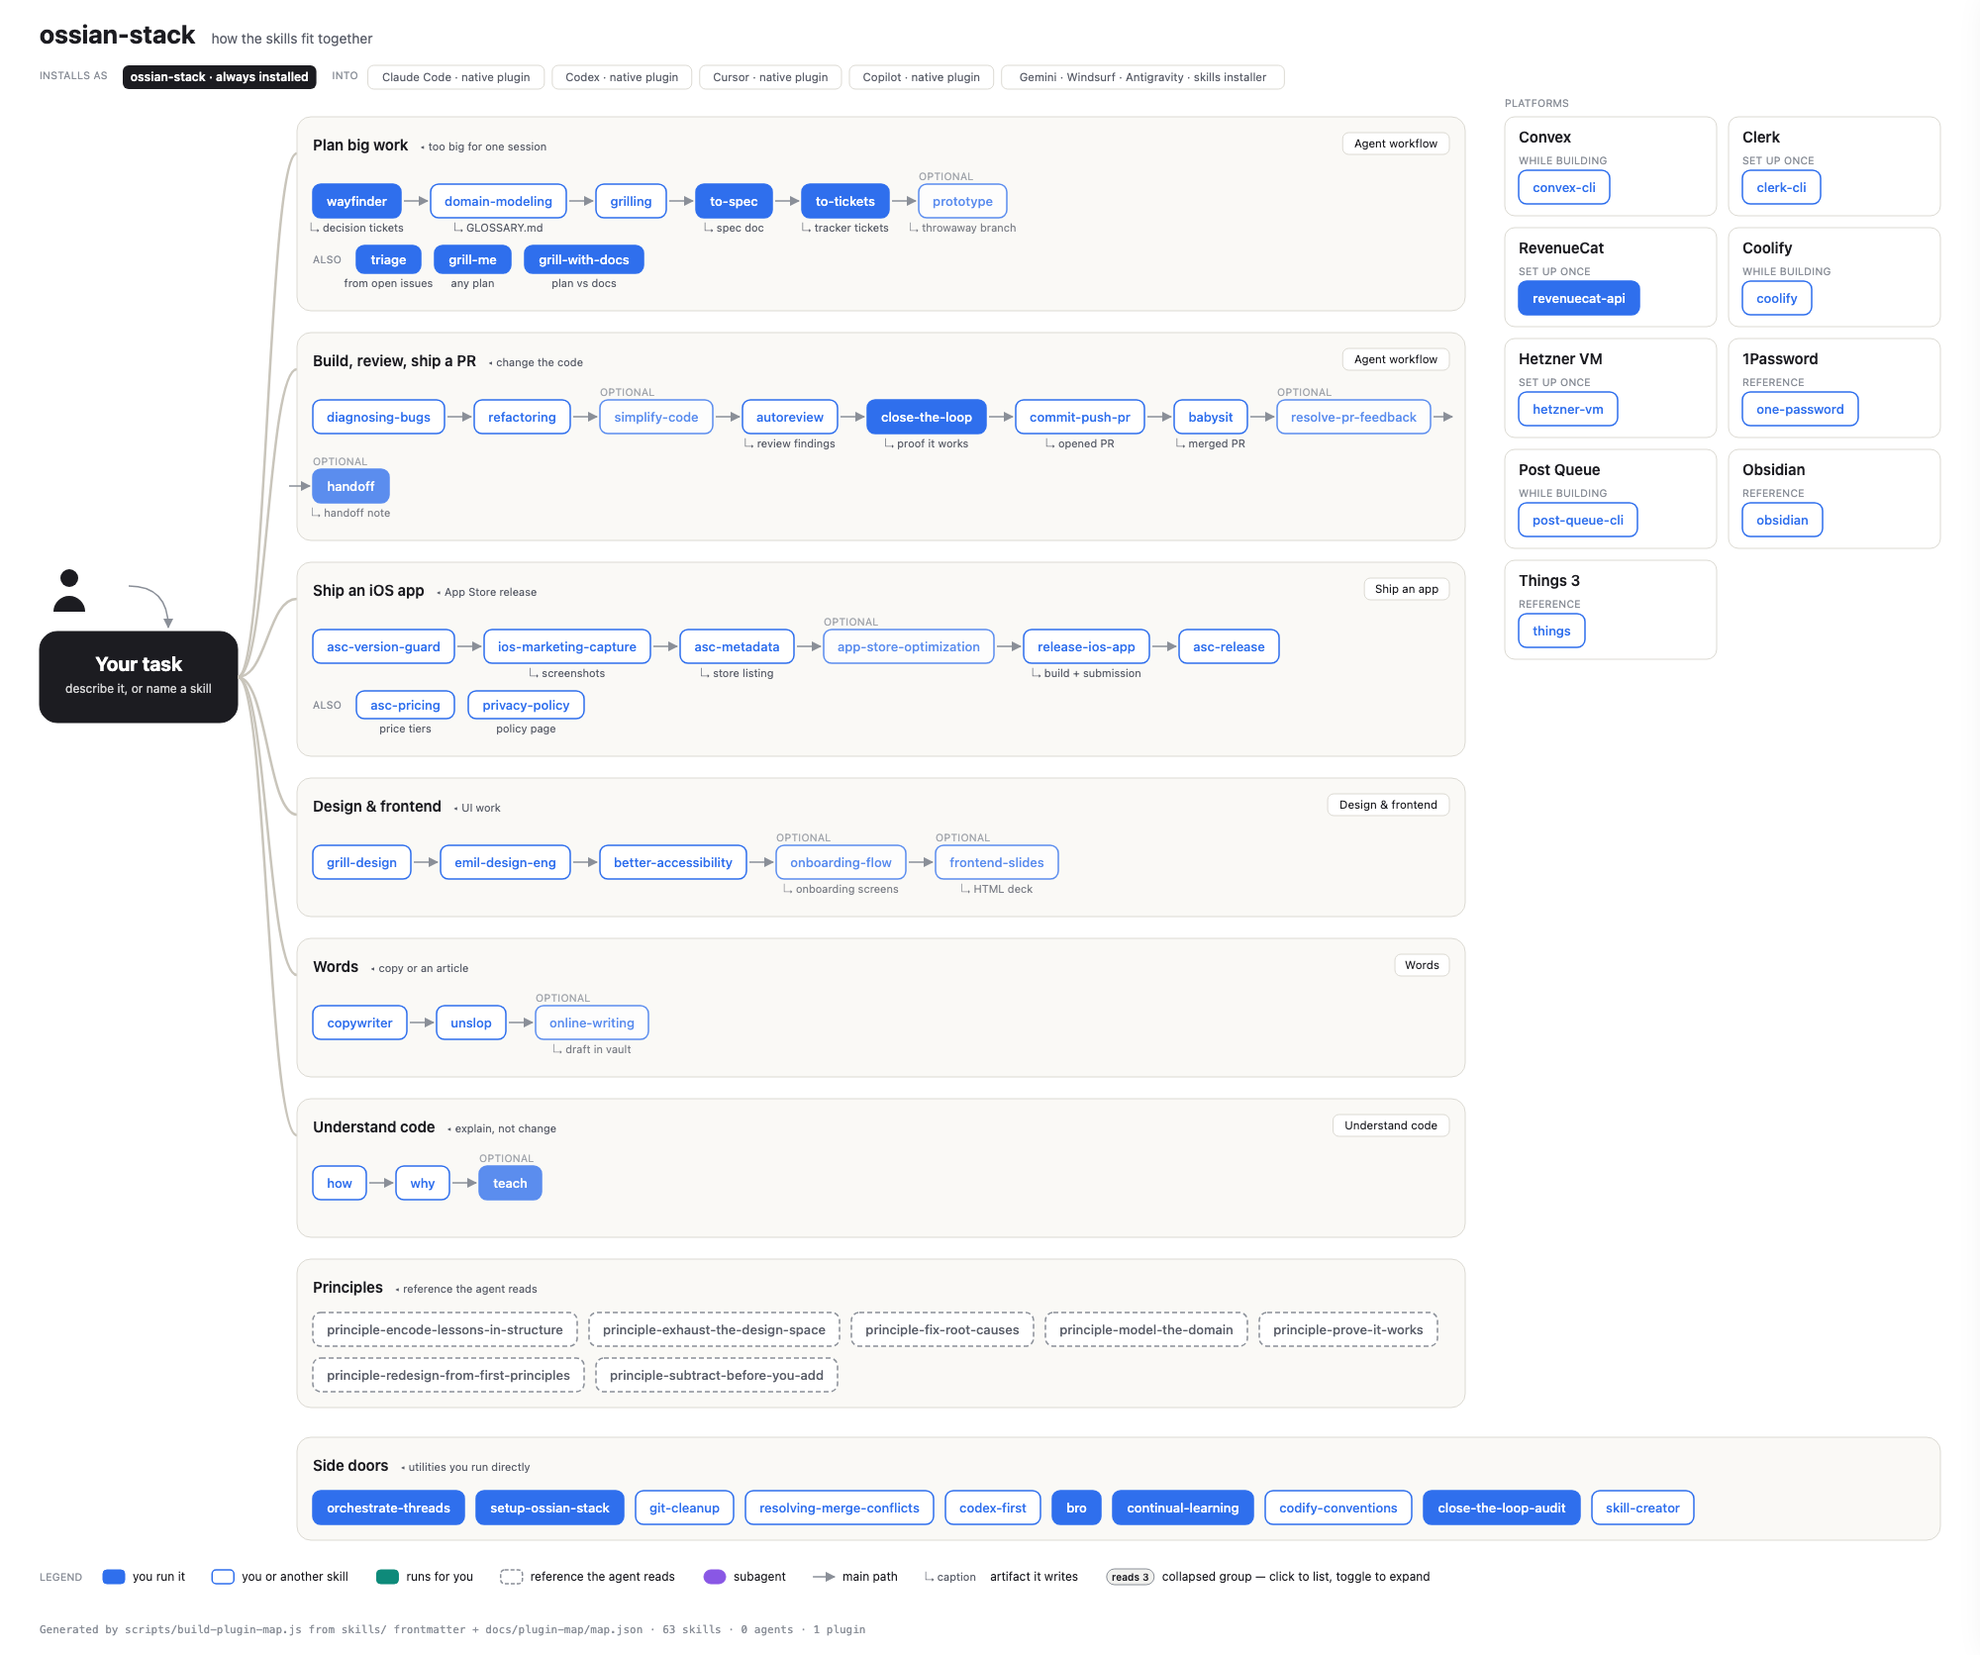
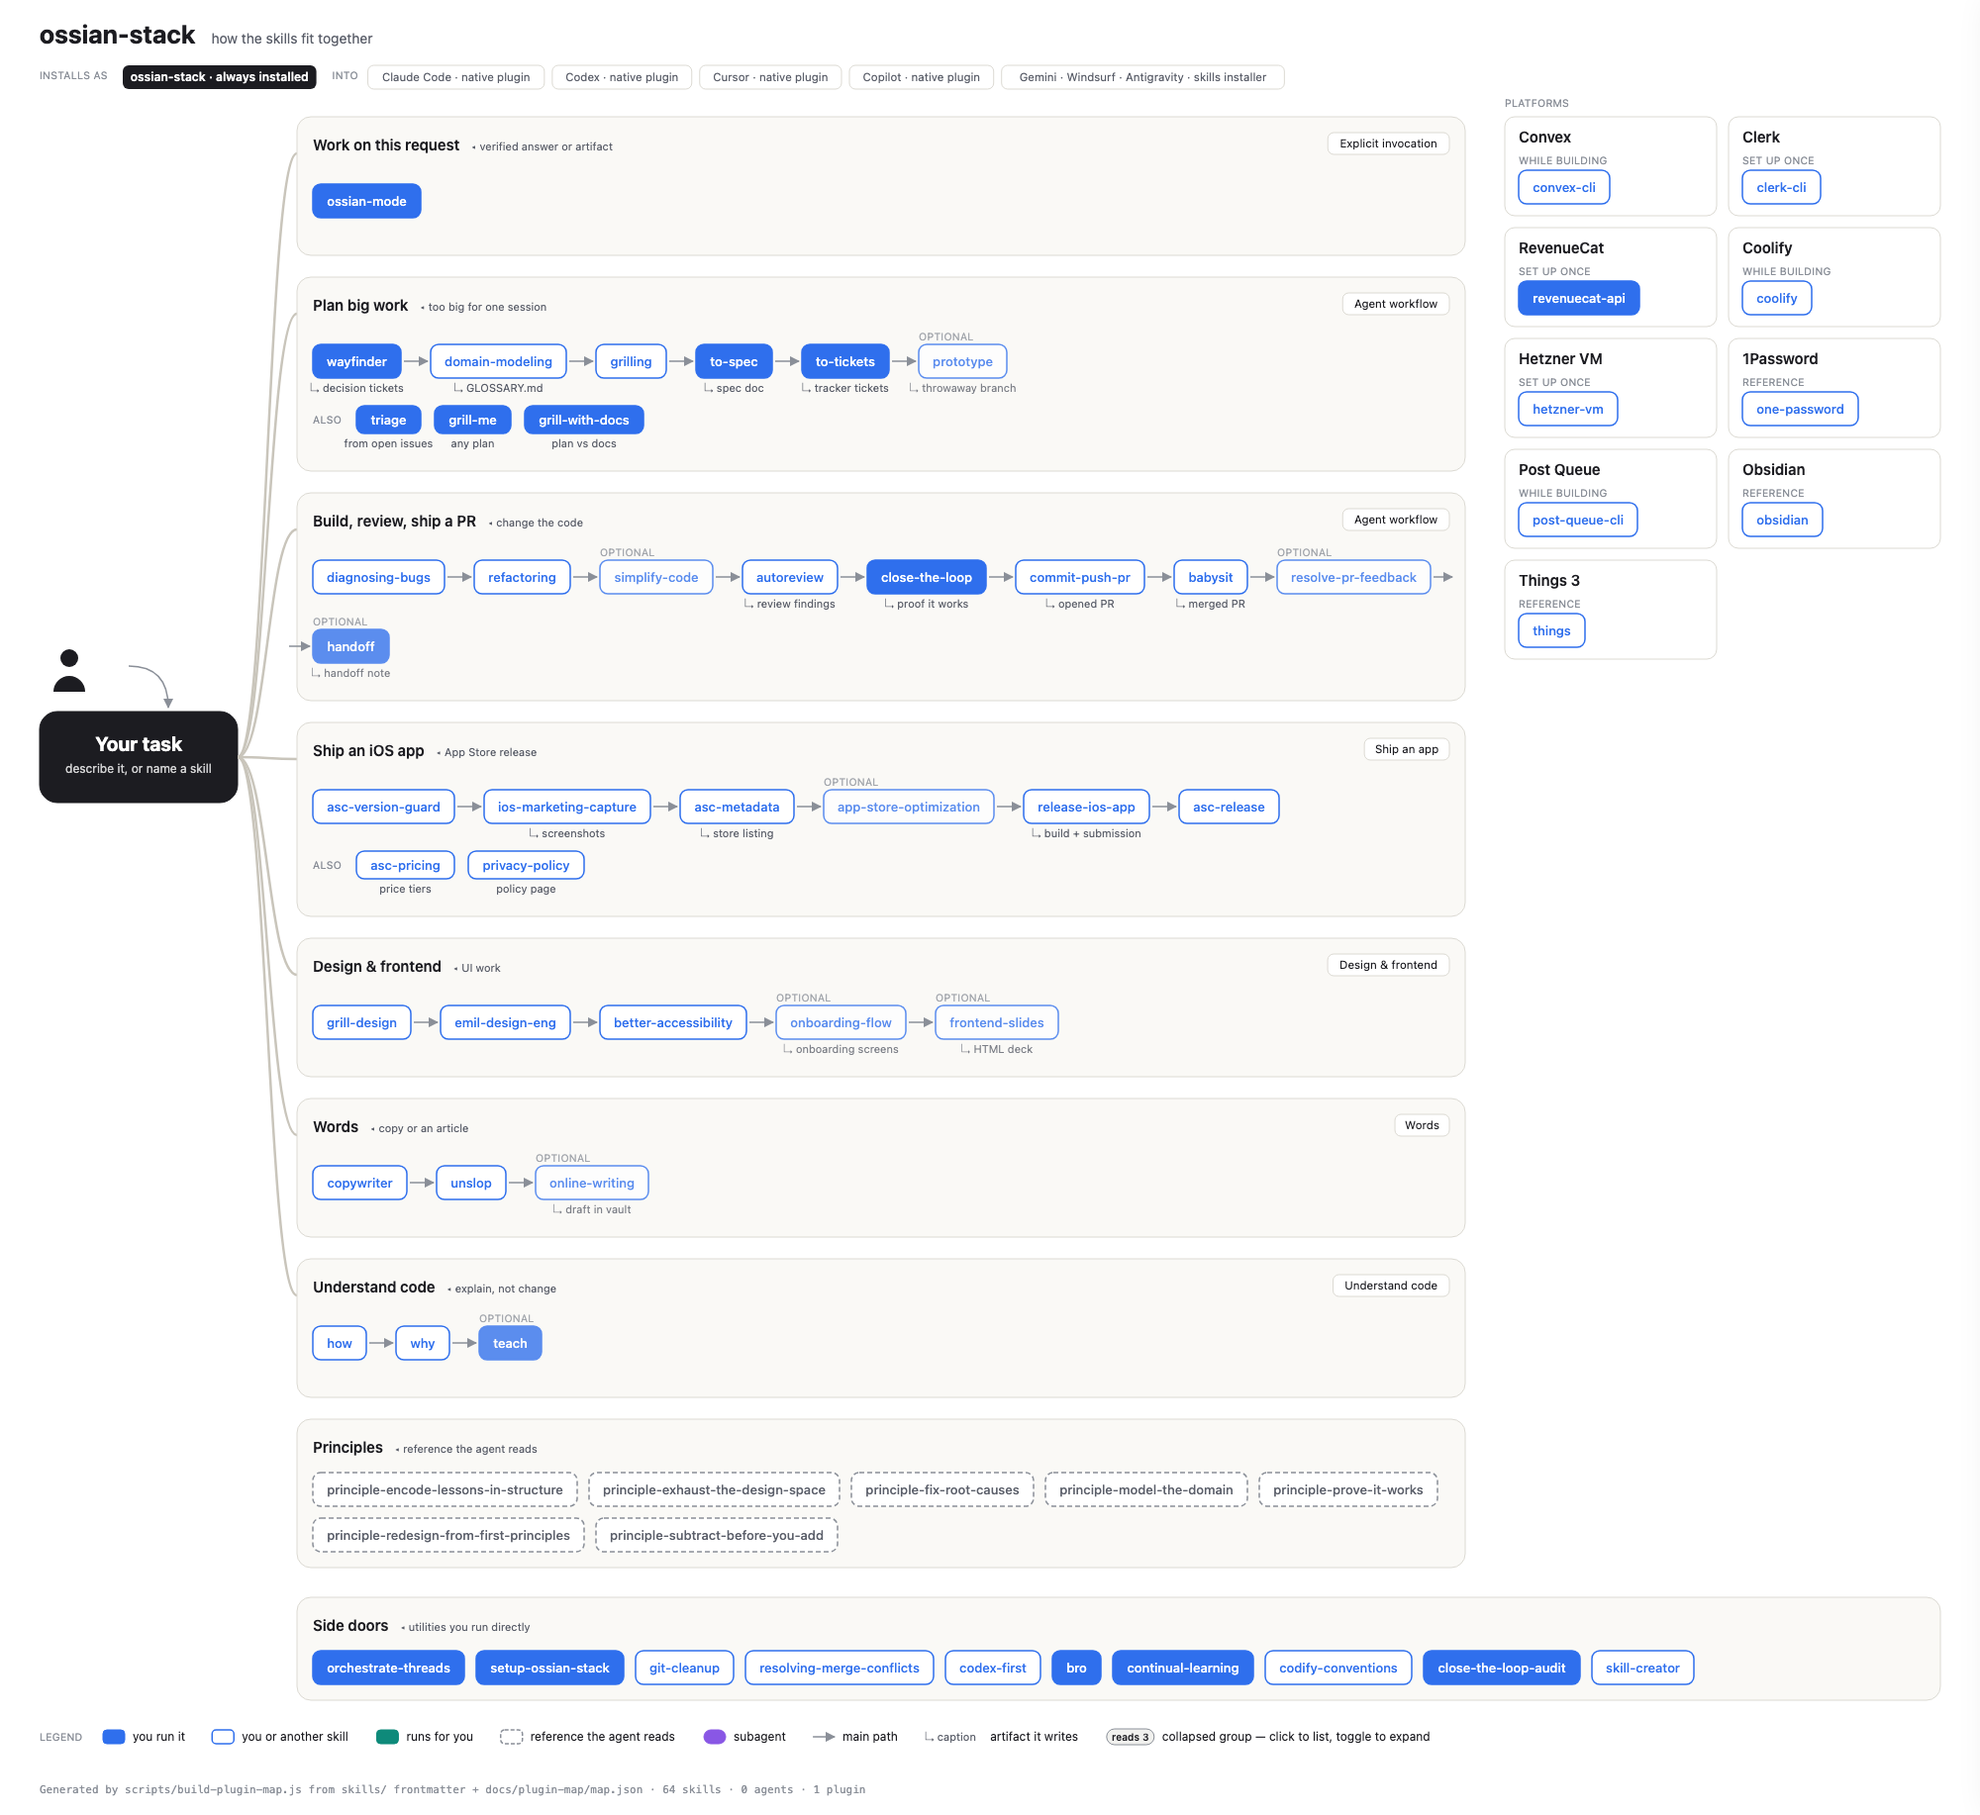
fix(ossian-mode): route requests through working standards and skills

diff --git a/docs/plugin-map/index.html b/docs/plugin-map/index.html
@@ -152,6 +152,18 @@
  "sections": {
   "lanes": [
    {
+    "id": "current-request",
+    "title": "Work on this request",
+    "outcome": "verified answer or artifact",
+    "tag": "Explicit invocation",
+    "steps": [
+     {
+      "id": "ossian-mode"
+     }
+    ],
+    "extras": []
+   },
+   {
     "id": "plan",
     "title": "Plan big work",
     "outcome": "too big for one session",
@@ -574,6 +586,7 @@
    "calledBy": [
     "commit-push-pr",
     "orchestrate-threads",
+    "ossian-mode",
     "release-ios-app",
     "resolve-pr-feedback",
     "setup-ossian-stack"
@@ -706,7 +719,8 @@
     "unslop"
    ],
    "calledBy": [
-    "babysit"
+    "babysit",
+    "ossian-mode"
    ]
   },
   "continual-learning": {
@@ -739,7 +753,9 @@
    "origin": "companion",
    "repo": "https://github.com/get-convex/convex-js",
    "calls": [],
-   "calledBy": []
+   "calledBy": [
+    "ossian-mode"
+   ]
   },
   "coolify": {
    "id": "coolify",
@@ -798,6 +814,7 @@
    ],
    "calledBy": [
     "orchestrate-threads",
+    "ossian-mode",
     "setup-ossian-stack"
    ]
   },
@@ -831,7 +848,9 @@
    "origin": "vendored",
    "repo": "https://github.com/emilkowalski/skills",
    "calls": [],
-   "calledBy": []
+   "calledBy": [
+    "ossian-mode"
+   ]
   },
   "frontend-slides": {
    "id": "frontend-slides",
@@ -920,6 +939,7 @@
    "calls": [],
    "calledBy": [
     "codify-conventions",
+    "ossian-mode",
     "triage",
     "wayfinder"
    ]
@@ -971,6 +991,7 @@
    "calls": [],
    "calledBy": [
     "diagnosing-bugs",
+    "ossian-mode",
     "refactoring",
     "teach",
     "why"
@@ -1038,6 +1059,7 @@
    "calls": [],
    "calledBy": [
     "hetzner-vm",
+    "ossian-mode",
     "setup-ossian-stack"
    ]
   },
@@ -1082,6 +1104,36 @@
     "diagnosing-bugs",
     "handoff",
     "setup-ossian-stack"
+   ],
+   "calledBy": []
+  },
+  "ossian-mode": {
+   "id": "ossian-mode",
+   "type": "skill",
+   "plugin": "ossian-stack",
+   "display": "Ossian Mode",
+   "description": "Apply Ossian Stack's working standards to the current request and choose the relevant workflow. Use only when the user explicitly invokes ossian-mode.",
+   "role": "human",
+   "humanOnly": true,
+   "argumentHint": null,
+   "origin": "local",
+   "repo": null,
+   "calls": [
+    "one-password",
+    "setup-ossian-stack",
+    "how",
+    "why",
+    "diagnosing-bugs",
+    "grilling",
+    "prototype",
+    "to-spec",
+    "convex-cli",
+    "emil-design-eng",
+    "refactoring",
+    "simplify-code",
+    "commit-push-pr",
+    "babysit",
+    "release-ios-app"
    ],
    "calledBy": []
   },
@@ -1241,6 +1293,7 @@
     "principle-exhaust-the-design-space"
    ],
    "calledBy": [
+    "ossian-mode",
     "wayfinder"
    ]
   },
@@ -1262,7 +1315,9 @@
     "principle-prove-it-works",
     "principle-redesign-from-first-principles"
    ],
-   "calledBy": []
+   "calledBy": [
+    "ossian-mode"
+   ]
   },
   "release-ios-app": {
    "id": "release-ios-app",
@@ -1281,6 +1336,7 @@
     "babysit"
    ],
    "calledBy": [
+    "ossian-mode",
     "setup-ossian-stack"
    ]
   },
@@ -1360,6 +1416,7 @@
    ],
    "calledBy": [
     "orchestrate-threads",
+    "ossian-mode",
     "wayfinder"
    ]
   },
@@ -1378,6 +1435,7 @@
     "principle-subtract-before-you-add"
    ],
    "calledBy": [
+    "ossian-mode",
     "refactoring"
    ]
   },
@@ -1443,6 +1501,7 @@
    "calls": [],
    "calledBy": [
     "orchestrate-threads",
+    "ossian-mode",
     "setup-ossian-stack"
    ]
   },
@@ -1539,12 +1598,13 @@
    ],
    "calledBy": [
     "diagnosing-bugs",
+    "ossian-mode",
     "teach"
    ]
   }
  },
  "counts": {
-  "skills": 63,
+  "skills": 64,
   "agents": 0,
   "plugins": 1
  }

diff --git a/README.md b/README.md
@@ -2,7 +2,7 @@
 
 Ossian's personal agent skills, packaged as one plugin for Claude Code, Codex, and Cursor.
 
-![skills](https://img.shields.io/badge/skills-63-blue)
+![skills](https://img.shields.io/badge/skills-64-blue)
 ![license](https://img.shields.io/badge/license-MIT-green)
 ![runtimes](https://img.shields.io/badge/runtimes-Claude%20Code%20%C2%B7%20Codex%20%C2%B7%20Cursor-8957e5)
 
@@ -113,6 +113,18 @@ individual names and trigger descriptions.
 clone — a local-directory marketplace is what disables automatic updates. The
 trade is that pushing is what publishes: an unpushed edit reaches no runtime.
 
+## Use Ossian Mode
+
+Explicitly invoke **ossian-mode** with your request to apply the working standards
+and select the relevant workflow. For example: “Use ossian-mode to fix this
+regression; leave the changes local.” It carries your scope and permissions
+through diagnosis, implementation, and verification, loading only relevant skills.
+
+**setup-ossian-stack** configures the installation and project;
+**orchestrate-threads** coordinates long-lived visible tasks. Ossian Mode handles
+the current request without creating tasks automatically. Direct skill calls
+remain valid, and downstream explicit-invocation and action permissions still apply.
+
 ## Philosophy
 
 One repo, one install, every runtime. These skills previously lived in a private
@@ -128,7 +140,7 @@ refreshed instead of quietly rotting.
 
 ## Skills at a glance
 
-63 skills, grouped by what they are for.
+64 skills, grouped by what they are for.
 
 | Group | Covers | Skills |
 | --- | --- | --- |
@@ -136,7 +148,7 @@ refreshed instead of quietly rotting.
 | **Design & frontend** | Accessibility, UI craft and motion, decks, onboarding, throwaway prototypes | `better-accessibility` · `emil-design-eng` · `grill-design` · `frontend-slides` · `onboarding-flow` · `prototype` |
 | **Words** | Marketing copy, editorial, slop removal | `copywriter` · `online-writing` · `unslop` |
 | **Backend & infra** | Convex, Clerk, RevenueCat, secrets, Post Queue, Coolify deploys, Hetzner VM | `convex-cli` · `clerk-cli` · `revenuecat-api` · `one-password` · `post-queue-cli` · `coolify` · `hetzner-vm` |
-| **Agent workflow** | Review, routing, chat orchestration, large-effort planning, simplification, refactoring, debugging, verification, conventions enforcement, issue triage and ticketing, commit and PR creation, PR babysitting, git hygiene, install and skill maintenance | `autoreview` · `babysit` · `commit-push-pr` · `continual-learning` · `codify-conventions` · `setup-ossian-stack` · `diagnosing-bugs` · `domain-modeling` · `close-the-loop` · `close-the-loop-audit` · `codex-first` · `git-cleanup` · `grill-me` · `grill-with-docs` · `grilling` · `handoff` · `orchestrate-threads` · `refactoring` · `resolving-merge-conflicts` · `resolve-pr-feedback` · `simplify-code` · `triage` · `to-spec` · `to-tickets` · `wayfinder` · `bro` · `skill-creator` |
+| **Agent workflow** | Review, routing, chat orchestration, large-effort planning, simplification, refactoring, debugging, verification, conventions enforcement, issue triage and ticketing, commit and PR creation, PR babysitting, git hygiene, install and skill maintenance | `autoreview` · `babysit` · `commit-push-pr` · `continual-learning` · `codify-conventions` · `setup-ossian-stack` · `diagnosing-bugs` · `domain-modeling` · `close-the-loop` · `close-the-loop-audit` · `codex-first` · `git-cleanup` · `grill-me` · `grill-with-docs` · `grilling` · `handoff` · `orchestrate-threads` · `ossian-mode` · `refactoring` · `resolving-merge-conflicts` · `resolve-pr-feedback` · `simplify-code` · `triage` · `to-spec` · `to-tickets` · `wayfinder` · `bro` · `skill-creator` |
 | **Principles** | Short, explicitly-invoked rules for how to work — verification, design exploration, debugging posture, domain modeling | `principle-encode-lessons-in-structure` · `principle-exhaust-the-design-space` · `principle-fix-root-causes` · `principle-model-the-domain` · `principle-prove-it-works` · `principle-redesign-from-first-principles` · `principle-subtract-before-you-add` |
 | **Understand code** | Codebase walkthroughs, design rationale, explaining a change | `how` · `why` · `teach` |
 | **Personal tooling** | Notes and tasks | `obsidian` · `things` |

diff --git a/skills/ossian-mode/SKILL.md b/skills/ossian-mode/SKILL.md
@@ -1,0 +1,67 @@
+---
+name: ossian-mode
+description: Apply Ossian Stack's working standards to the current request and choose the relevant workflow. Use only when the user explicitly invokes ossian-mode.
+disable-model-invocation: true
+---
+
+# Ossian Mode
+
+Carry the user's goal through to a verified answer or artifact. Use the project's
+active instructions and available capabilities; load only the skills needed for
+the current work.
+
+## Working standards
+
+- Act on authorized work and finish it. Resolve routine choices from context;
+  ask only when a missing decision or permission prevents useful progress.
+- Preserve unrelated changes and stay within the agreed scope.
+- When a command needs credentials, use `one-password` to retrieve or inject
+  the project's secrets from 1Password without printing them, hardcoding them,
+  or asking the user to paste secret values into chat.
+- Communicate plainly: lead with the result, explain consequential choices, and
+  keep the user informed while work is in progress.
+- Prefer simple changes that address the underlying condition. Add only what
+  the evidence and the requested outcome require.
+- Verify the actual behavior or artifact before claiming success. Use focused
+  checks that can expose the failure; report unavailable evidence as unverified.
+
+## Choose the relevant workflow
+
+Route by the outcome and what remains uncertain. An approved scope goes straight
+to implementation; its size alone does not require a planning detour.
+
+| Current need | Route |
+| --- | --- |
+| Questions or investigation | `how` for behavior and ownership; `why` for rationale and evidence. A question alone does not authorize a change. |
+| Diagnosis | `diagnosing-bugs` for broken behavior or regressions. Carry a request to fix through diagnosis, correction, and verification; keep a diagnosis-only request bounded. |
+| Unsettled design | `grilling` for decisions, `prototype` for a concrete comparison. Once decisions are settled, `to-spec` can capture them when explicitly invoked and its tracker prerequisites are met. |
+| Implementation | Implement the agreed scope directly. Load a relevant platform or craft skill only where needed, such as `convex-cli` for Convex operations or `emil-design-eng` for UI craft. |
+| Refactoring | `refactoring` for structural changes with behavior preserved; `simplify-code` for readability in place. |
+| Delivery | `commit-push-pr` for requested commits, pushes, and PRs; `babysit` for an existing PR's requested status or readiness work; `release-ios-app` for an authorized iOS release. |
+
+For work tied to an issue or a workflow that needs a tracker, use the project's
+configured tracker and ticket conventions. If required configuration is missing,
+point the user to explicitly invoke `setup-ossian-stack` before the dependent
+step; continue any authorized work that can proceed. Questions and untracked
+local work can proceed without tracker setup.
+
+Carry the original goal, scope, permissions, and explicit choices into each
+route. Routing does not widen them. Honor the host's invocation restrictions,
+including explicit-only downstream skills: naming one here does not invoke it
+or permit loading it indirectly. If a required route is unavailable or restricted,
+explain the specific limit and continue any authorized work that remains possible.
+
+This invocation grants no blanket authority for external messages, publishing,
+merging, or other restricted operations. Apply permissions already established
+in the conversation without asking for them again. When new authorization is
+required, prepare the concrete, reviewable result first.
+
+## Keep the roles distinct
+
+**setup-ossian-stack** configures the installation and project. **ossian-mode**
+handles this request. **orchestrate-threads** coordinates long-lived visible tasks
+when explicitly invoked; this skill creates no tasks automatically. Direct calls
+to any existing skill remain valid.
+
+Finish with the answer or artifact, the evidence that supports it, and any
+remaining limitation or decision. Choosing a route alone is not completion.

diff --git a/docs/agents/hq.md b/docs/agents/hq.md
@@ -35,17 +35,19 @@ active branching instructions when choosing the task environment.
 
 ## Blocked on the human
 
-None. Awaiting the first workstream from the user.
+None.
 
 ## Done
 
 | Workstream | Artifact | Closed | Task |
 | --- | --- | --- | --- |
+| 🧭 ossian-mode | [Entry skill](../../skills/ossian-mode/SKILL.md) | 2026-09-04: HQ reviewed skill, routing, metadata, and rendered map; repository checks passed. User authorized commit and push to main. | `🧭 Ossian Stack · ossian-mode` (`01a06b6d-630e-7893-b1de-bdf1f7393cfb`, local), archived (done: approved implementation) |
 
 ## Inline edits
 
+- 2026-09-04: Added one-password credential routing and conditional tracker/setup guidance to ossian-mode; updated map links and regenerated images. Repository checks passed. Generic skill validator does not support the existing disable-model-invocation field; preserved the required explicit-only metadata.
 - 2026-09-04: Created this ledger and named and pinned HQ. Ledger contains task names, IDs, and status; no secrets. Left uncommitted for the user to decide whether to track it.
 
 ## Next
 
-Brief and dispatch the first requested workstream to its own visible task.
+After publication, refresh the plugin and start a new session to use ossian-mode.
